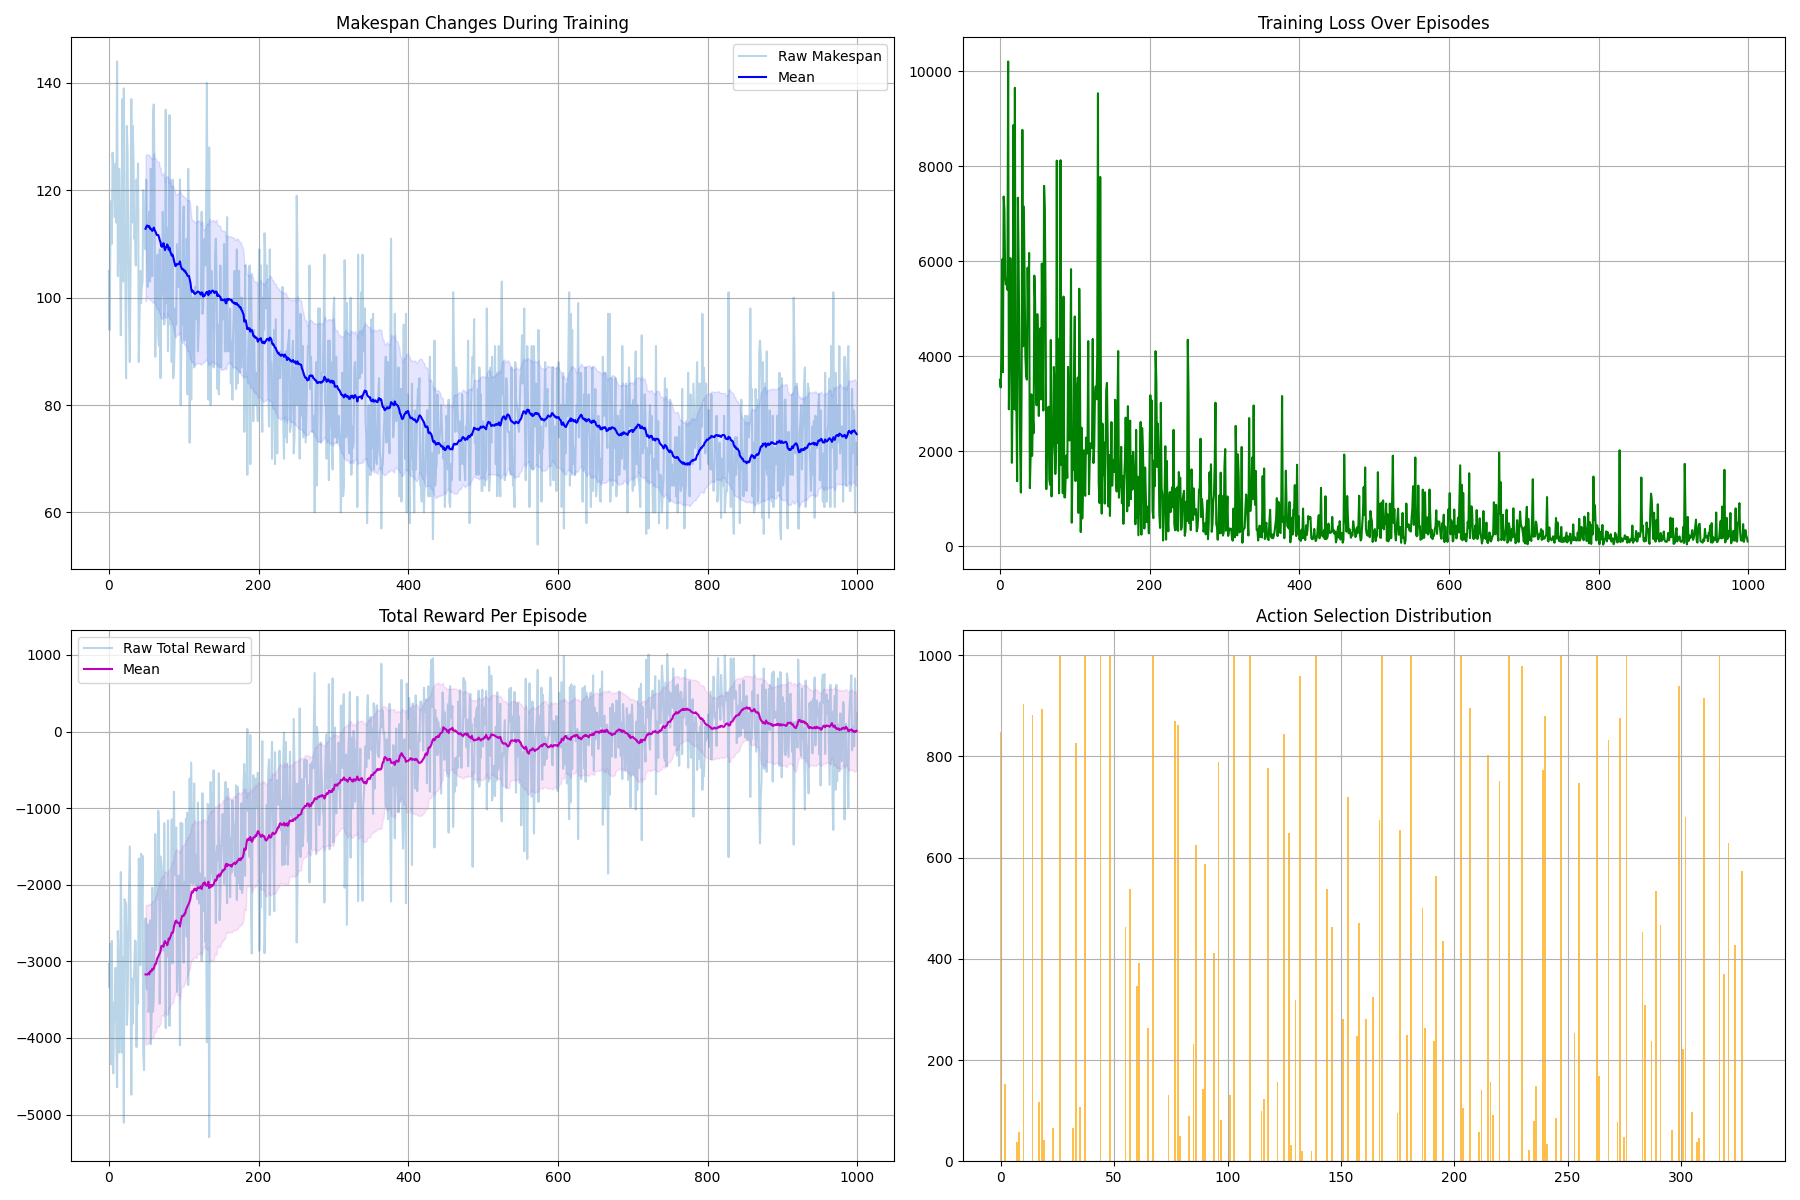
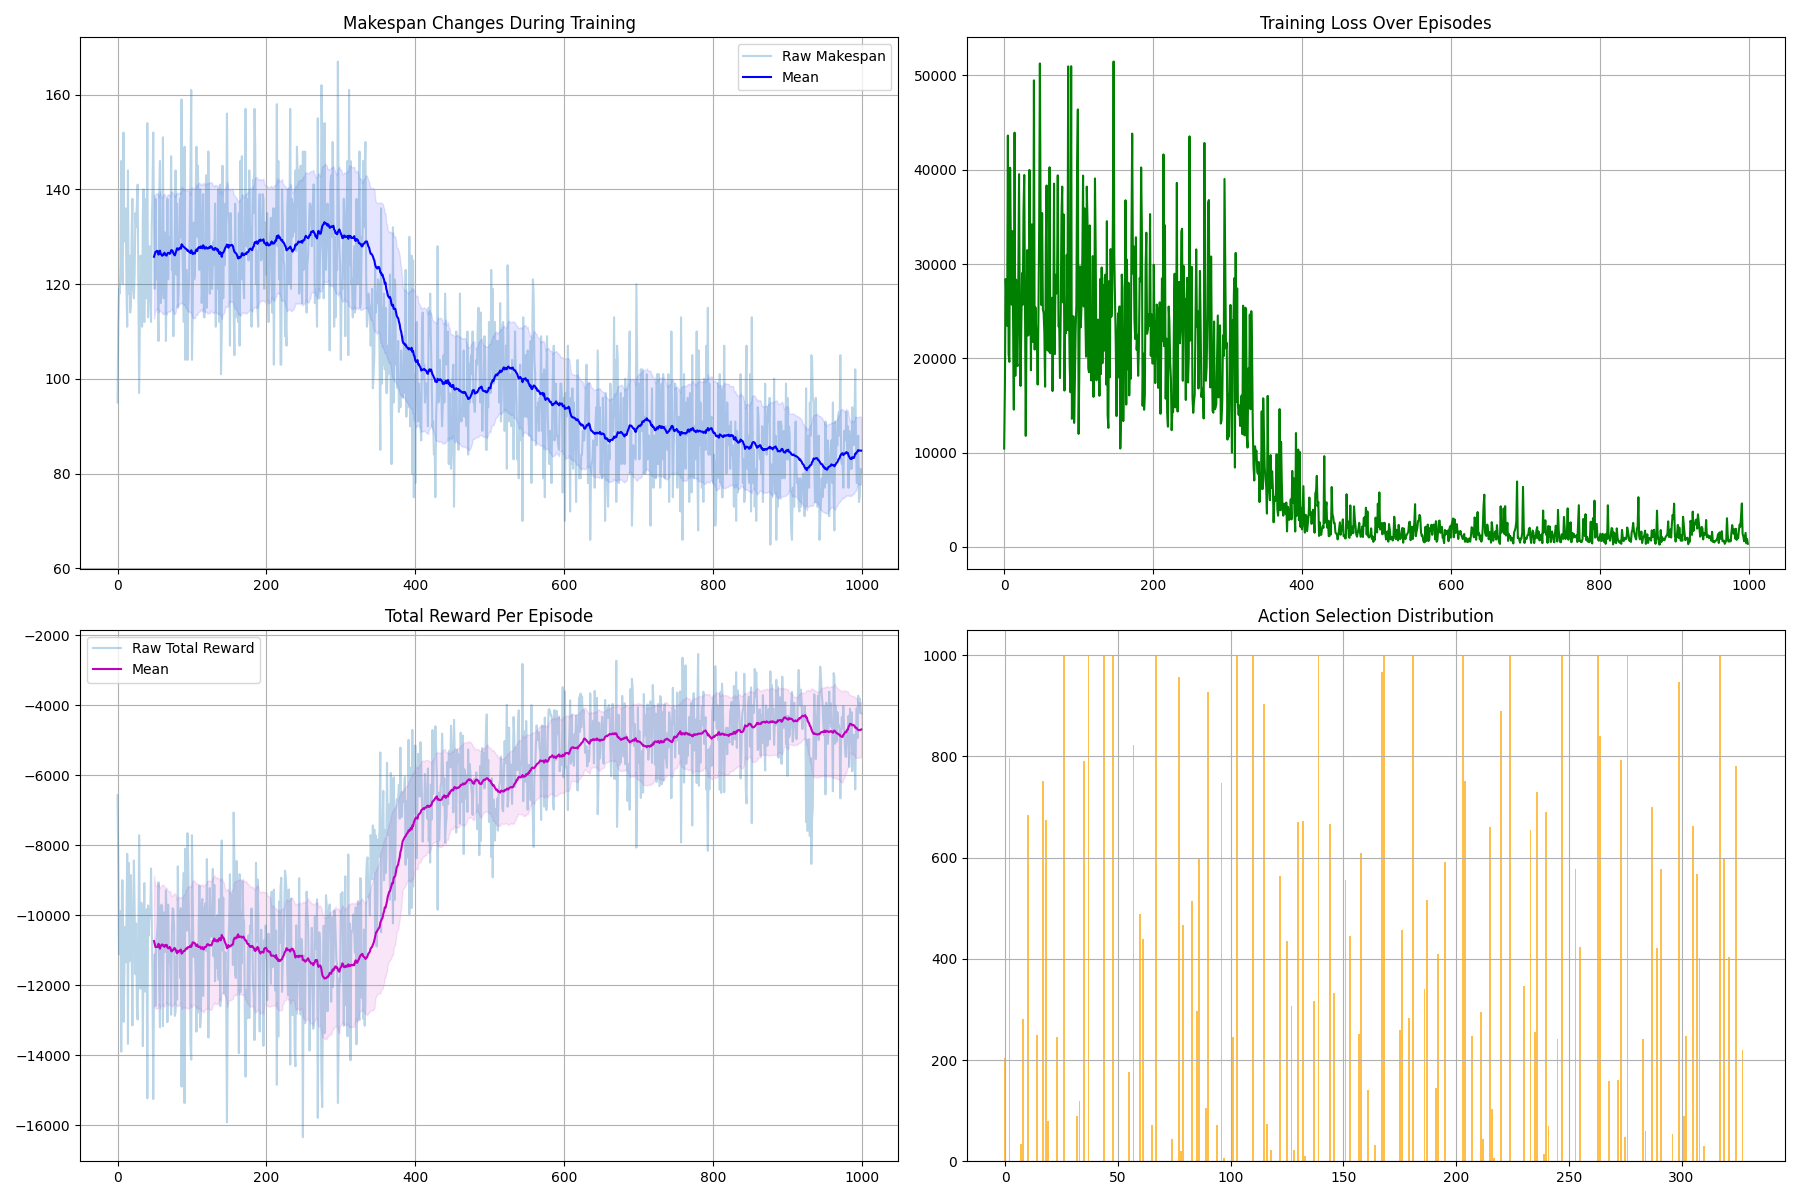
暂存

diff --git a/Fjsp_env.py b/Fjsp_env.py
@@ -215,7 +215,7 @@ class FJSPEnvironment(gym.Env):
         
         # 组合奖励
         progress_reward = completion_percentage * 20.0  # 进度奖励
-        time_reward = -2.0 * current_makespan  # 时间惩罚
+        time_reward = -4.0 * current_makespan  # 时间惩罚
         balance_reward = utilization * 80.0  # 利用率奖励
         
         return progress_reward + time_reward + balance_reward

diff --git a/train/train_a2c.py b/train/train_a2c.py
@@ -19,12 +19,12 @@ action_size = env.action_space.n
 agent = A2CAgent(
     state_size, 
     action_size, 
-    lr=9e-5,        
-    gamma=0.99      
+    lr=5e-4,        
+    gamma=0.95      
 )
 
 n_episodes = 1000   # 训练轮数，可增大如2000、5000
-test_freq = 20
+test_freq = 10
 best_makespan = float('inf')
 best_schedule = None
 makespans = []
